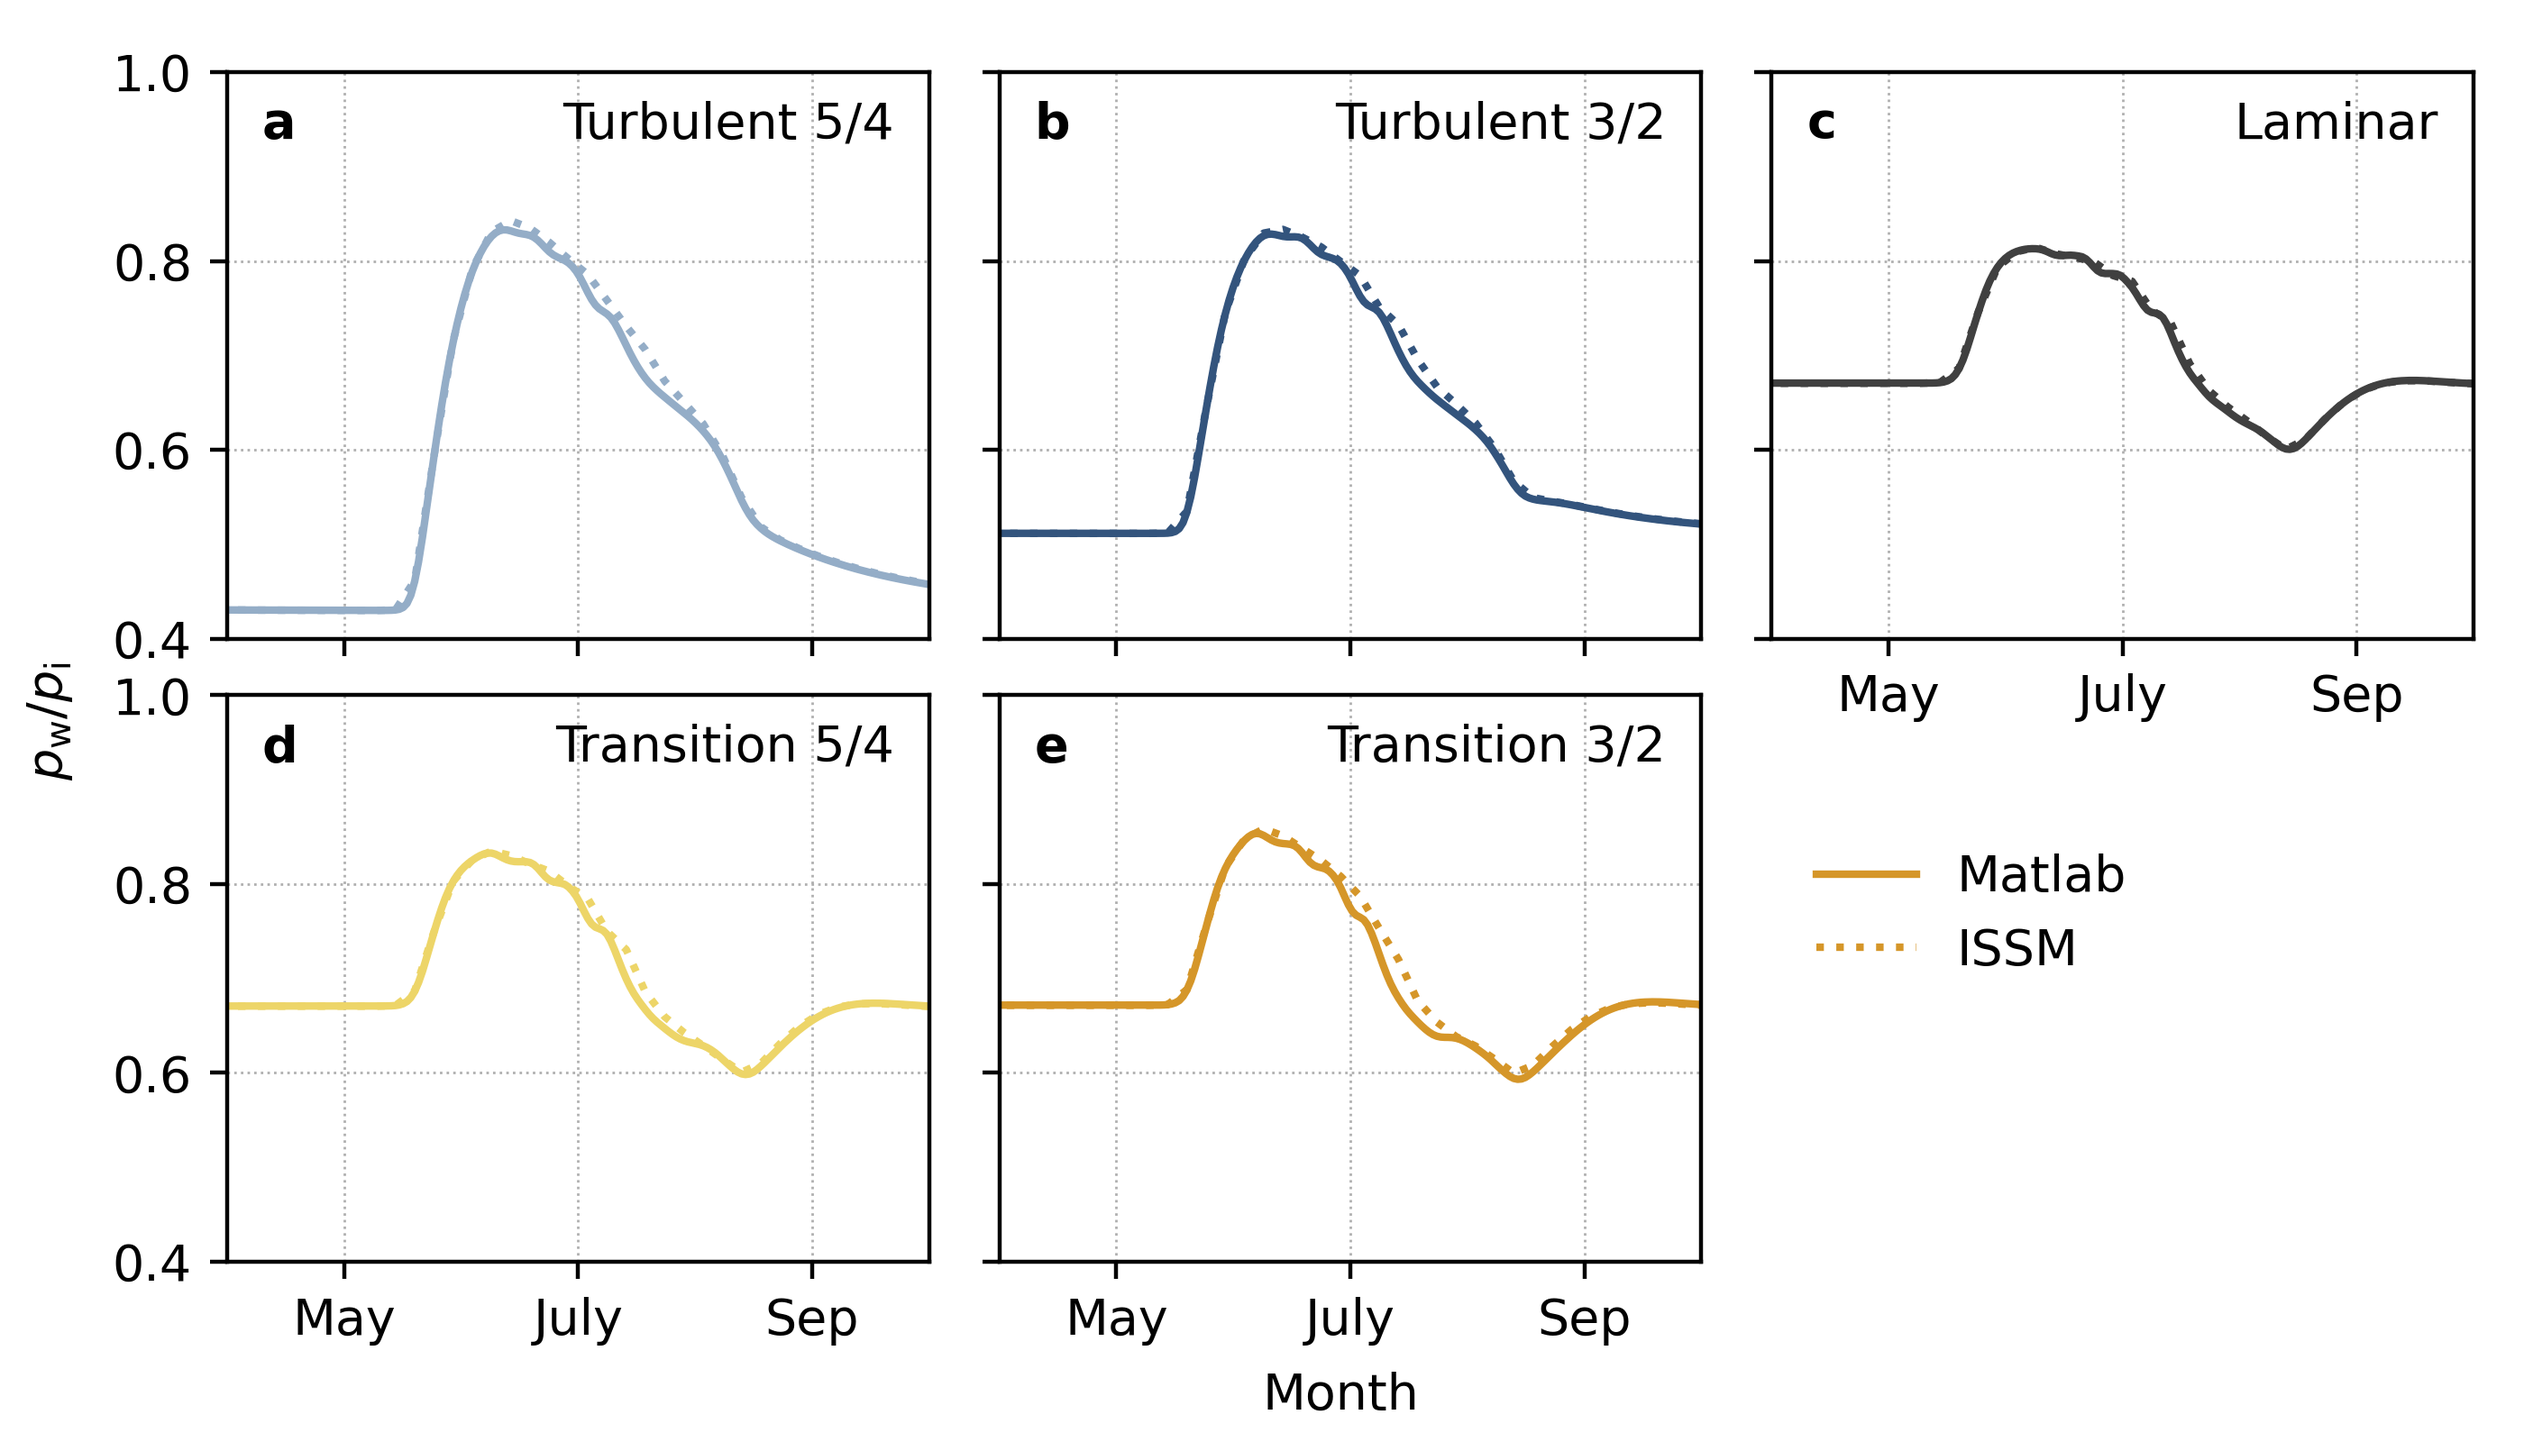
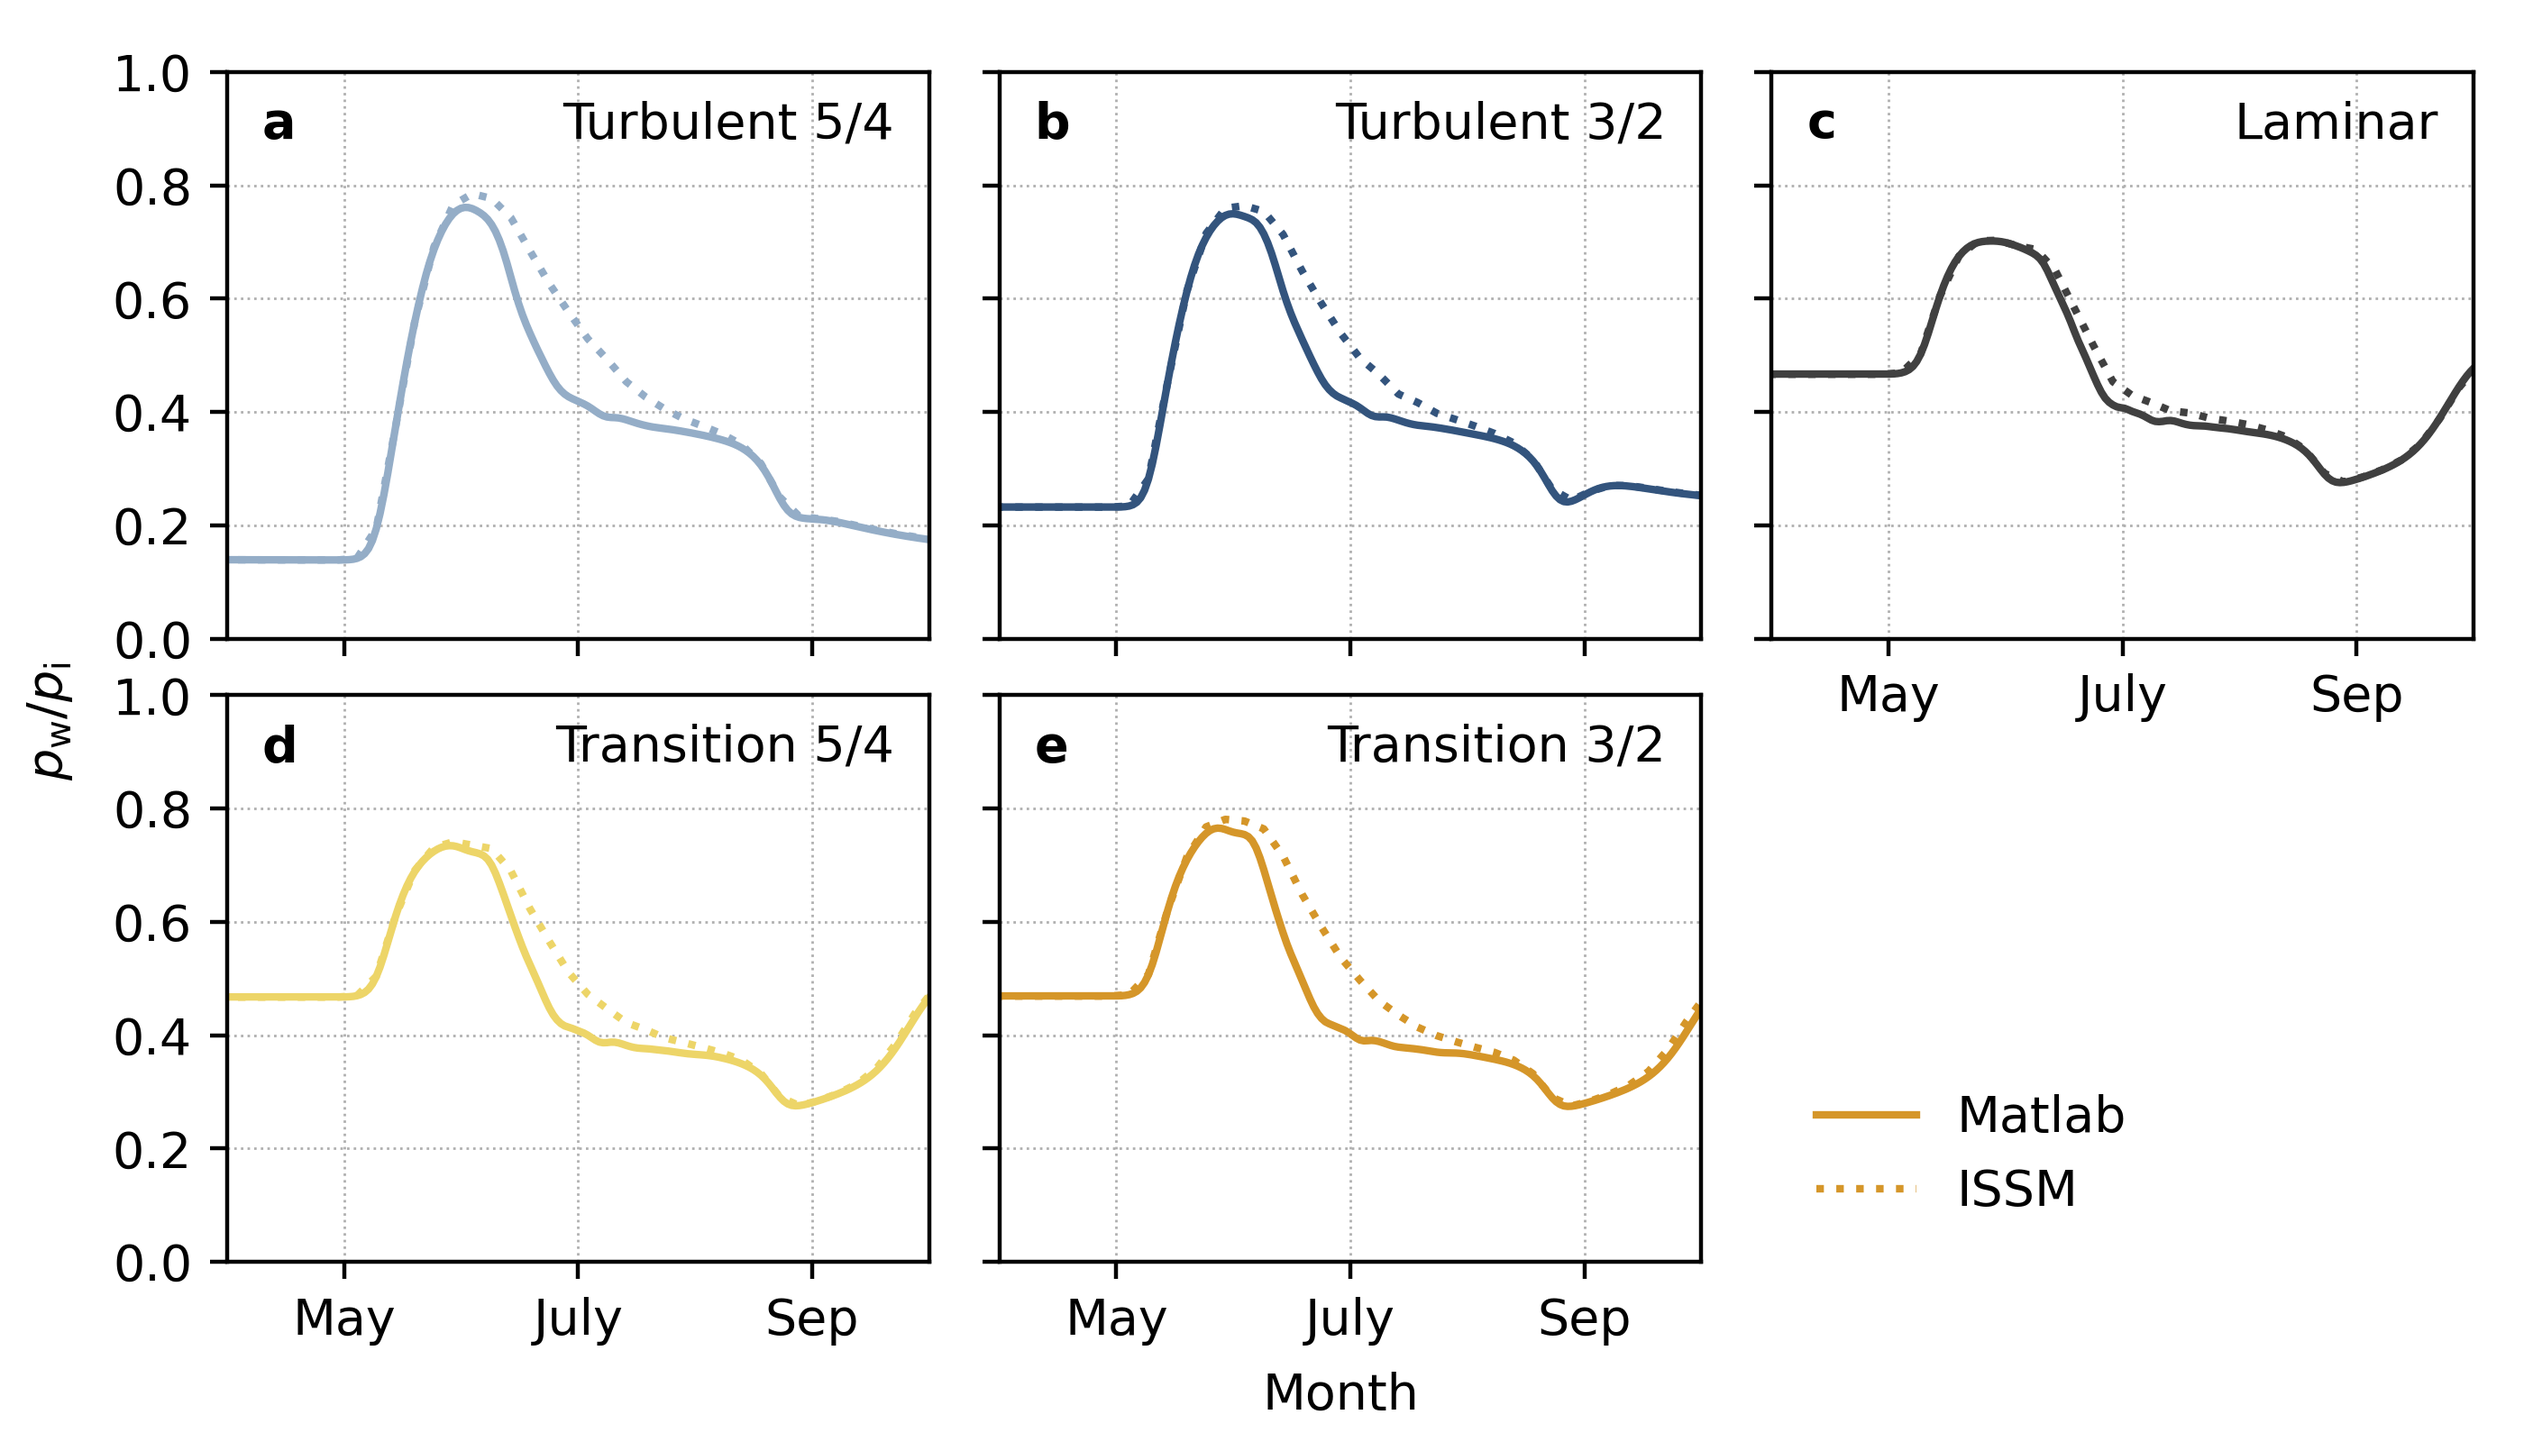
Update dev figures

diff --git a/issm/00_synth_forcing/analysis/plot_issm_matlab.py b/issm/00_synth_forcing/analysis/plot_issm_matlab.py
@@ -8,7 +8,10 @@ from matplotlib.gridspec import GridSpec
 from matplotlib.tri import Triangulation
 import netCDF4 as nc
 
+import cmocean
+
 import defaults
+import GladsPlot as gplt
 
 models = ['Turbulent 5/4', 'Turbulent 3/2', 'Laminar',
             'Transition 5/4', 'Transition 3/2']
@@ -16,15 +19,16 @@ models = ['Turbulent 5/4', 'Turbulent 3/2', 'Laminar',
 def plot_issm(mat_fnames, issm_fnames, figname,
     colors=defaults.colors, xb=30e3, bw=5e3, Qb=15e3,
     models=models,
-    tslice=defaults.tslice, map_cmap=defaults.cmaps['floatation'],
+    tslice=220, map_cmap=defaults.cmaps['floatation'],
     line_cmap=defaults.cmaps['Q'],
+    Qmin=1, Qmax=100,
     ):
     # Set up the figure and axes
-    fig = plt.figure(figsize=(6, 6))
-    gs = GridSpec(3, 2, left=0.09, right=0.98, bottom=0.125, top=0.95,
+    fig = plt.figure(figsize=(7, 6))
+    gs = GridSpec(3, 2, left=0.09, right=0.875, bottom=0.125, top=0.95,
         wspace=0.1, hspace=0.1,
         width_ratios=(100, 5))
-    axs = np.array([fig.add_subplot(gs[i,0]) for i in range(2)])
+    axs = np.array([fig.add_subplot(gs[i,0]) for i in range(3)])
     cax1 = fig.add_subplot(gs[:2, 1])
     cax2 = fig.add_subplot(gs[-1, 1])
     alphabet = ['a', 'b', 'c', 'd', 'e']
@@ -58,9 +62,22 @@ def plot_issm(mat_fnames, issm_fnames, figname,
         Q_issm = np.abs(idata['Q'][:, :].data.T)
         itt = idata['time'][:].data.T
 
-    itt = itt - 8
+    print('ISSM shape:')
+    print(ff_issm.shape)
 
-    axm = axs.flat[0]
+    print('MATLAB shape:')
+    print(ff.shape)
+    itt = itt - 8
+    tslice_issm = int(9*(365/5) + tslice/5)
+    tslice_mat = tslice + 365
+
+    print('MATLAB time')
+    print(mtt[tslice_mat])
+
+    print('ISSM time')
+    print(itt[tslice_issm])
+
+    axm = axs[0]
     # ax.plot(mtt, np.mean(ff[nodemask, :], axis=0),
     #     color=colors[ii])
     # ax.plot(itt, np.mean(ff_issm[nodemask, :], axis=0),
@@ -68,22 +85,31 @@ def plot_issm(mat_fnames, issm_fnames, figname,
     # ax.text(0.05, 0.95, alphabet[ii], va='top', fontweight='bold', transform=ax.transAxes)
     # ax.text(0.95, 0.95, models[ii], va='top', ha='right', transform=ax.transAxes)
     # ax.grid(linewidth=0.5, linestyle=':')
-    axm.tripcolor(mtri, ff[:, tslice],
+    mat_pc = axm.tripcolor(mtri, ff[:, tslice_mat],
         cmap=map_cmap, vmin=0, vmax=1)
-    lcm = gplt.plot_edge_data(nodes/1e3, connect_edge, Q[:, tslice],
+    lcm = gplt.plot_edge_data(nodes/1e3, connect_edge, Q[:, tslice_mat],
             line_cmap, vmin=Qmin, vmax=Qmax)
     axm.add_collection(lcm)
     
-    axi = axs.flat[1]
-    axi.tripcolor(mtri, ff_issm[:, tslice],
+    axi = axs[1]
+    issm_pc = axi.tripcolor(mtri, ff_issm[:, tslice_issm],
         cmap=map_cmap, vmin=0, vmax=1)
     
-    lci = gplt.plot_edge_data(nodes/1e3, connect_edge, Q_issm[:, tslice],
+    lci = gplt.plot_edge_data(nodes/1e3, connect_edge, Q_issm[:, tslice_issm],
             line_cmap, vmin=Qmin, vmax=Qmax)
     axi.add_collection(lci)
     # axs.flat[-1].set_visible(False)
 
+    axd = axs[2]
+    diff_pc = axd.tripcolor(mtri, ff_issm[:, tslice_issm] - ff[:, tslice],
+        cmap=cmocean.cm.balance, vmin=-0.1, vmax=0.1)
 
+    mat_cbar = fig.colorbar(mat_pc, cax=cax1)
+    mat_cbar.set_label('Flotation fraction')
+
+    diff_cbar = fig.colorbar(diff_pc, cax=cax2)
+    diff_cbar.set_label(r'$\Delta$ Flotation fraction')
+    """
     for ax in axs.flat:
         ax.set_xticks(xticks)
         ax.set_xticklabels(xticklabels)
@@ -103,7 +129,14 @@ def plot_issm(mat_fnames, issm_fnames, figname,
     axs.flat[4].legend(labels=('Matlab', 'ISSM'),
         bbox_to_anchor=(1.1, 0, 1, 0.8), mode='expand',
         frameon=False)
+    """
 
+    for ax in axs:
+        ax.set_aspect('equal')
+        ax.set_xlim([0, 100])
+        ax.set_ylim([0, 25])
+
+    axs[0].set_title('Day %d' % tslice)
     if figname:
         fig.savefig(figname, dpi=400)
         
@@ -112,7 +145,8 @@ if __name__ == '__main__':
     prefix = '/home/tghill/projects/def-gflowers/tghill/laminar-turbulent/'
     mat_fnames = [prefix + 'glads/00_synth_forcing/RUN/output_%03d_seasonal.nc'%i for i in range(1,6)]
     issm_fnames = [prefix + 'issm/00_synth_forcing/RUN/output_%03d.nc'%i for i in range(1,6)]
-    figname = 'figures/aux/glads_issm_spatial.png'
-    plot_issm(mat_fnames, issm_fnames, figname)
+    tslice = 160
+    figname = 'glads_issm_spatial_%d.png' % tslice
+    plot_issm(mat_fnames, issm_fnames, figname, tslice=tslice)
 
     plt.show()

diff --git a/analysis/plot_issm.py b/analysis/plot_issm.py
@@ -13,10 +13,10 @@ models = ['Turbulent 5/4', 'Turbulent 3/2', 'Laminar',
             'Transition 5/4', 'Transition 3/2']
 
 def plot_issm(mat_fnames, issm_fnames, figname,
-    colors=defaults.colors, xb=30e3, bw=5e3, Qb=15e3,
+    colors=defaults.colors, xb=15e3, bw=5e3, Qb=15e3,
     models=models,
     xticks=[1+4/12,1+6/12,1+8/12], xticklabels=['May', 'July', 'Sep'],
-    xlim=[1+3/12,1+9/12], ylim=[0.4, 1.0],
+    xlim=[1+3/12,1+9/12], ylim=[0., 1.0],
     ):
     # Set up the figure and axes
     fig = plt.figure(figsize=(7, 4))
@@ -91,7 +91,7 @@ def plot_issm(mat_fnames, issm_fnames, figname,
 if __name__ == '__main__':
     prefix = '/home/tghill/projects/def-gflowers/tghill/laminar-turbulent/'
     mat_fnames = [prefix + 'glads/00_synth_forcing/RUN/output_%03d_seasonal.nc'%i for i in range(1,6)]
-    issm_fnames = [prefix _ 'issm/00_synth_forcing/RUN/output_%03d.nc'%i for i in range(1,6)]
+    issm_fnames = [prefix + 'issm/00_synth_forcing/RUN/output_%03d.nc'%i for i in range(1,6)]
     figname = 'figures/supplement/issm_comparison.png'
     plot_issm(mat_fnames, issm_fnames, figname)
 
